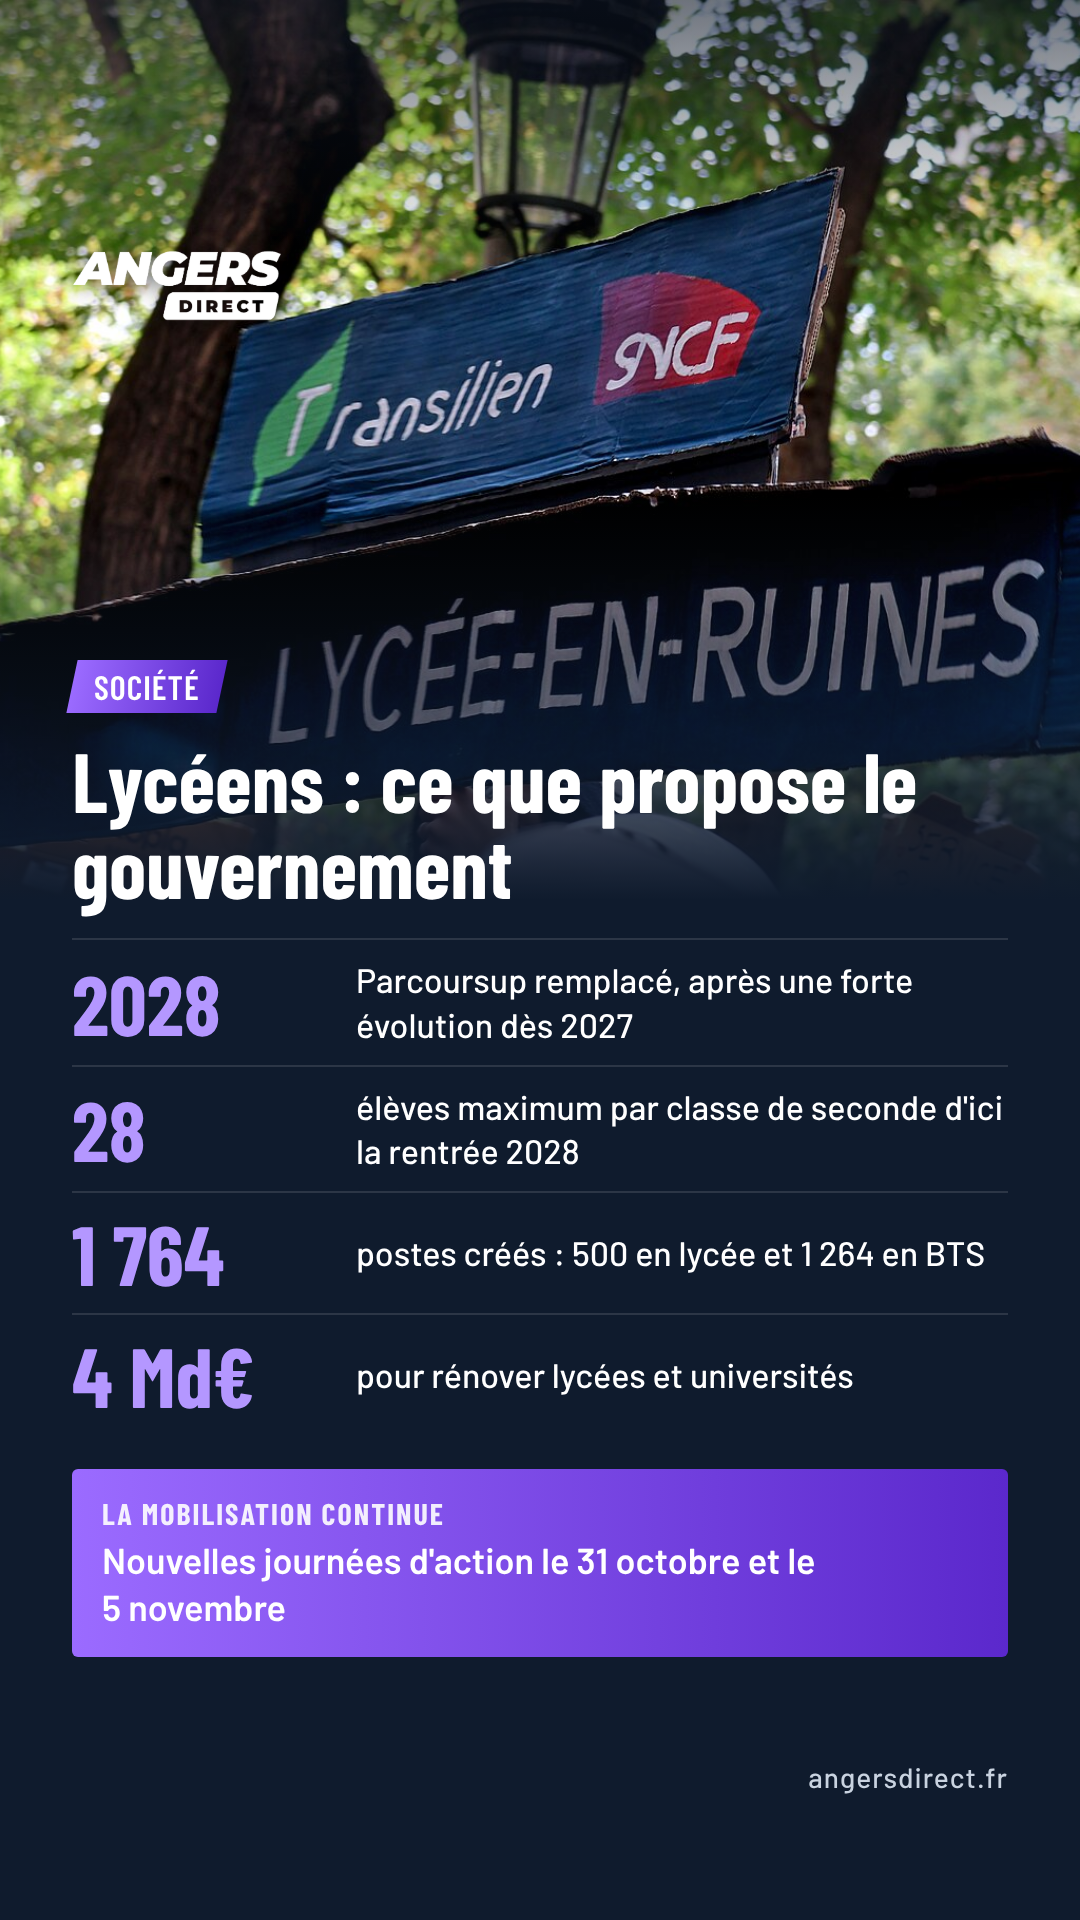
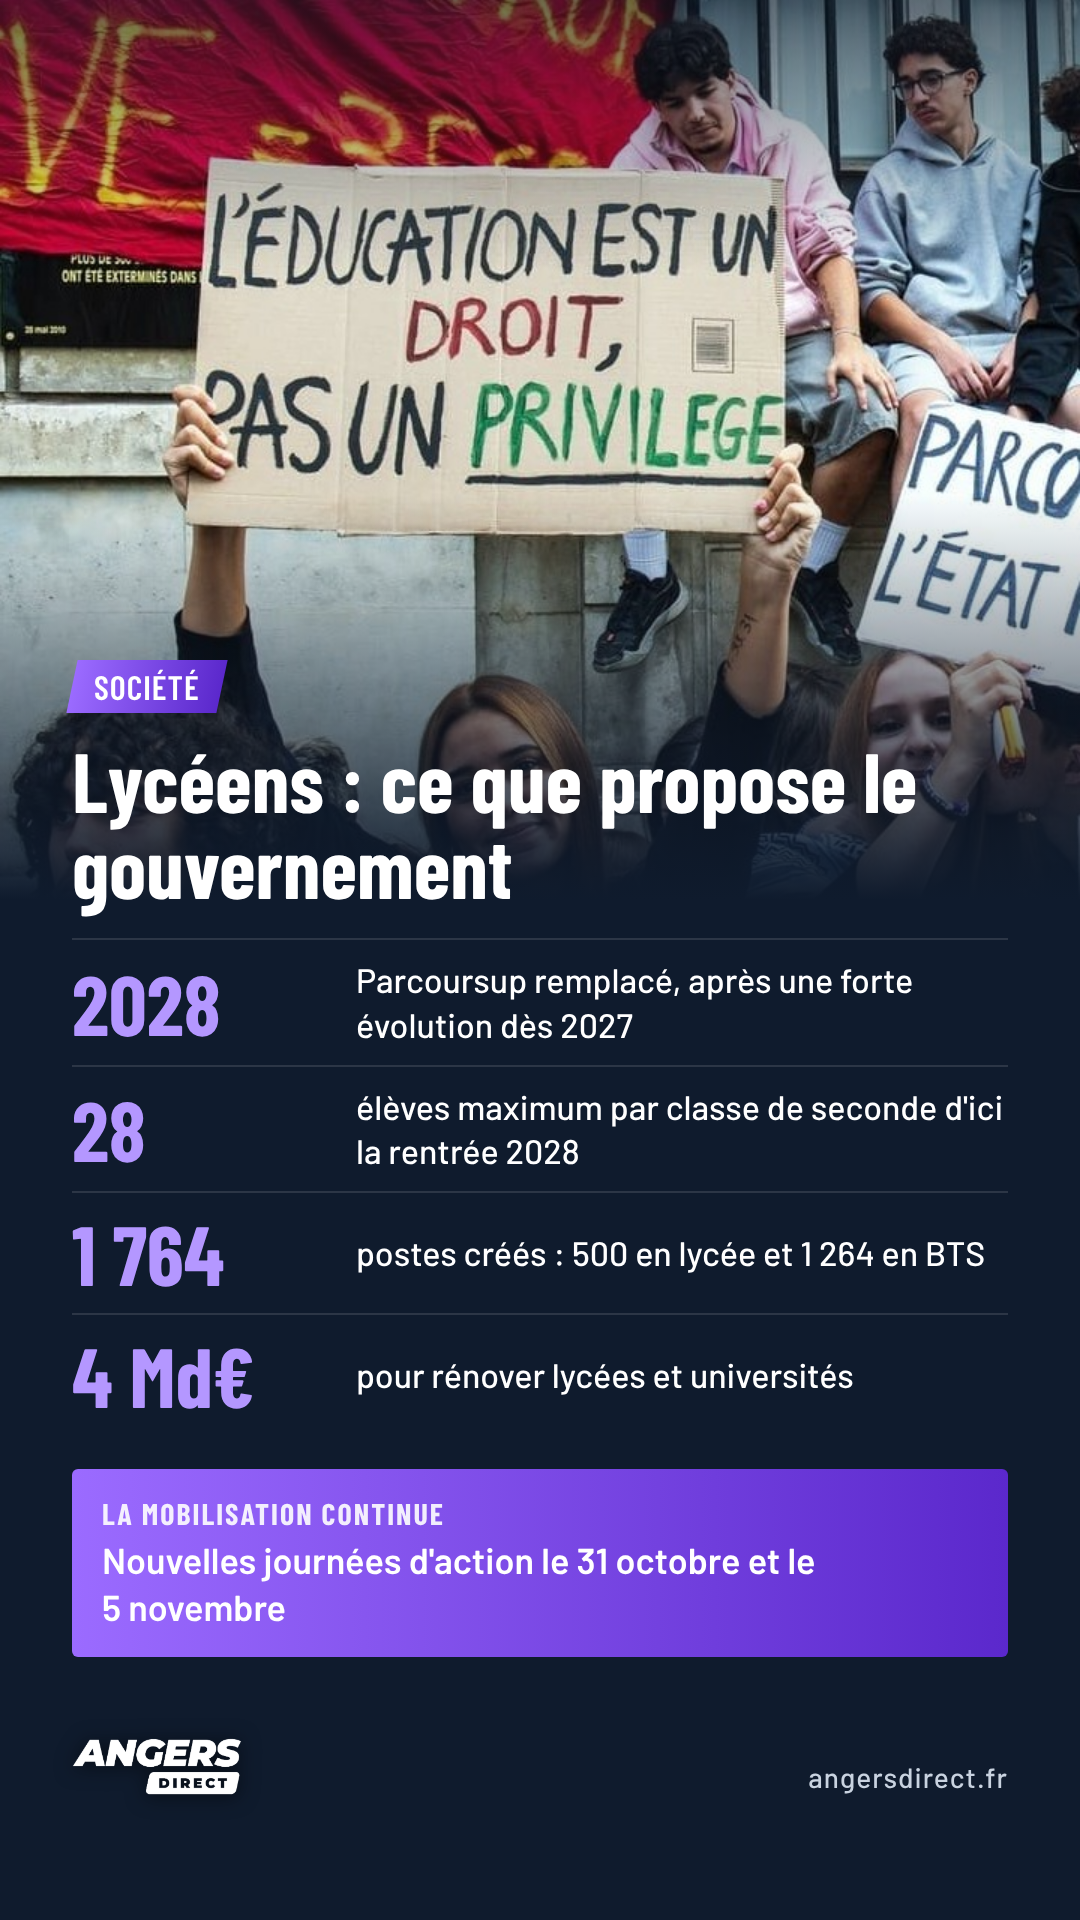
Mobilisation lycéenne : visuel Facebook (photo de la rédaction) + option cadrage du modèle sombre
Claude-Session: https://claude.ai/code/session_01Wb1bpkZigxVtCsvkPL2AqY

diff --git a/outils/story_points.py b/outils/story_points.py
@@ -3,7 +3,7 @@
 Usage : python3 outils/story_points.py fiche.json sortie.png
 Fiche : {"photo": "outils/sel/x.jpg", "credit": "", "rubrique": "SOCIÉTÉ", "titre": "...",
          "points": [{"chiffre": "2028", "texte": "..."}, ...3 à 5],
-         "encart": {"label": "À SUIVRE", "texte": "..."}}
+         "encart": {"label": "À SUIVRE", "texte": "..."}, "logo": "haut" (défaut) ou "bas"}
 Contenu utile entre 250 et 1670 px de haut (zones libres des interfaces Instagram et Facebook).
 """
 import json, pathlib, sys
@@ -21,6 +21,10 @@ def corps(f):
 <div style="flex:0 0 250px;font-family:'Barlow Condensed';font-weight:700;font-size:84px;line-height:1;color:#B497FF">{e(p['chiffre'])}</div>
 <div style="font-weight:500;font-size:34px;line-height:1.3;color:#FFFFFF">{e(p['texte'])}</div></div>'''
         for p in f['points'])
+    logo = f'<img src="file://{ICI}/assets/logo_blanc.png" style="position:absolute;left:72px;top:{{t}}px;width:{{w}}px;filter:drop-shadow(0 2px 10px rgba(0,0,0,0.6))">'
+    bas = f.get('logo') == 'bas'   # "logo": "bas" quand la photo est chargée en haut (pancartes, visages)
+    logo_haut = '' if bas else logo.format(t=250, w=210)
+    logo_bas = logo.format(t=1738, w=170) if bas else ''
     enc = f.get('encart')
     encart = (f'''<div style="margin-top:34px;padding:26px 30px;background:{couleur};border-radius:6px">
 <div style="font-family:'Barlow Condensed';font-weight:700;font-size:30px;letter-spacing:2px;color:#FFFFFF;opacity:.9">{e(enc['label'])}</div>
@@ -29,12 +33,12 @@ def corps(f):
 <img src="file://{photo}" style="position:absolute;left:0;top:0;width:1080px;height:900px;object-fit:cover">
 <div style="position:absolute;left:0;top:0;width:1080px;height:900px;background:linear-gradient(180deg,rgba(13,22,38,0.6) 0%,rgba(13,22,38,0) 30%,rgba(13,22,38,0) 55%,#0F1B2D 100%)"></div>
 {credit}
-<img src="file://{ICI}/assets/logo_blanc.png" style="position:absolute;left:72px;top:250px;width:210px;filter:drop-shadow(0 2px 10px rgba(0,0,0,0.6))">
+{logo_haut}
 <div style="position:absolute;left:72px;right:72px;top:660px;display:flex;flex-direction:column;align-items:flex-start">
 <div style="padding:6px 22px;background:{couleur};transform:skewX(-12deg);margin-bottom:24px"><div style="transform:skewX(12deg);font-family:'Barlow Condensed';font-weight:600;font-size:34px;letter-spacing:1px">{e(f['rubrique'].upper())}</div></div>
 <div style="font-family:'Barlow Condensed';font-weight:700;font-size:84px;line-height:1.02;margin-bottom:30px">{e(f['titre'])}</div>
 <div style="width:100%">{points}</div>{encart}</div>
-<div style="position:absolute;right:72px;top:1760px;font-weight:500;font-size:28px;letter-spacing:1px;color:#C9D3E0">angersdirect.fr</div></div>'''
+{logo_bas}<div style="position:absolute;right:72px;top:1760px;font-weight:500;font-size:28px;letter-spacing:1px;color:#C9D3E0">angersdirect.fr</div></div>'''
 
 
 def main():

diff --git a/outils/visuel.py b/outils/visuel.py
@@ -22,7 +22,8 @@ Fiche « fiche » (carte de carrousel sans photo, gros chiffre en tête) :
 
 Fiche « sombre » (style principal du fil Instagram : photo plein cadre, titre blanc sur dégradé bleu nuit) :
     {"type": "sombre", "photo": "chemin/photo.jpg", "credit": "", "rubrique": "CULTURE",
-     "titre": "Tolkien en tapisserie, [derniers jours] à Angers", "sous_titre": "...", "date": "Jusqu'au 8 novembre"}
+     "titre": "Tolkien en tapisserie, [derniers jours] à Angers", "sous_titre": "...", "date": "Jusqu'au 8 novembre",
+     "cadrage": "40% 50%"}  (facultatif : partie de la photo gardée, horizontale puis verticale ; centre par défaut)
     les mots entre crochets s'affichent en bleu
 """
 import html, json, pathlib, sys
@@ -129,7 +130,7 @@ def sombre(f):
     credit = f'<div style="position:absolute;right:16px;top:16px;padding:4px 10px;background:rgba(15,27,45,0.55);font-size:18px;color:#FFFFFF">{e(f["credit"])}</div>' if f.get('credit') else ''
     sous = f'<div style="font-weight:500;font-size:34px;line-height:1.4;color:#E3E8EF;margin-top:22px">{e(f["sous_titre"])}</div>' if f.get('sous_titre') else ''
     return f'''<div style="width:1080px;height:1350px;position:relative;overflow:hidden;background:#0F1B2D;font-family:Barlow;color:#FFFFFF">
-<img src="file://{photo}" style="position:absolute;left:0;top:0;width:1080px;height:1350px;object-fit:cover">
+<img src="file://{photo}" style="position:absolute;left:0;top:0;width:1080px;height:1350px;object-fit:cover;object-position:{f.get('cadrage', '50% 50%')}">
 <div style="position:absolute;inset:0;background:linear-gradient(180deg,rgba(13,22,38,0.55) 0%,rgba(13,22,38,0) 18%,rgba(13,22,38,0) 38%,rgba(15,27,45,0.82) 60%,#0F1B2D 80%)"></div>
 {credit}
 <img src="file://{ICI}/assets/logo_blanc.png" style="position:absolute;left:72px;top:64px;width:196px">
